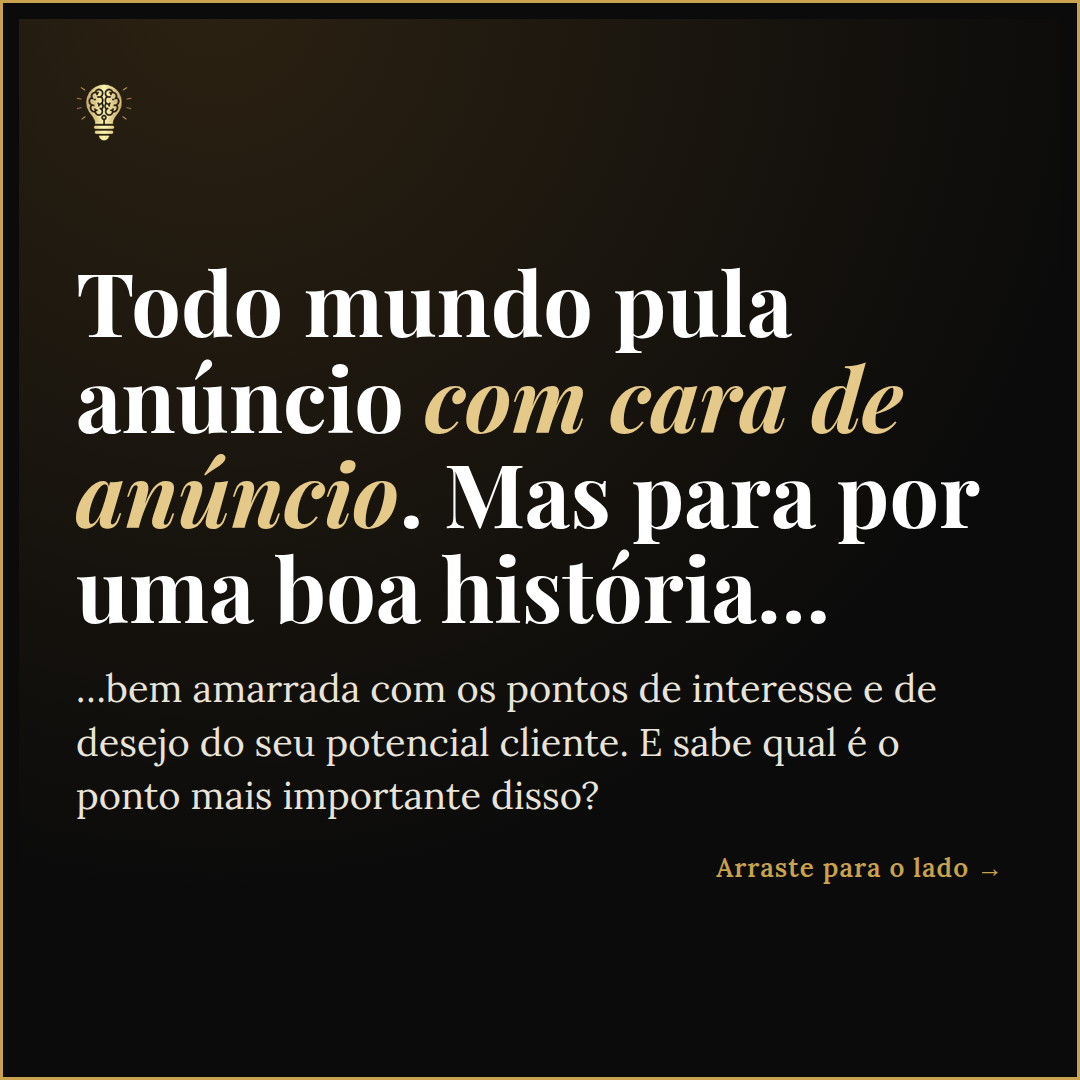
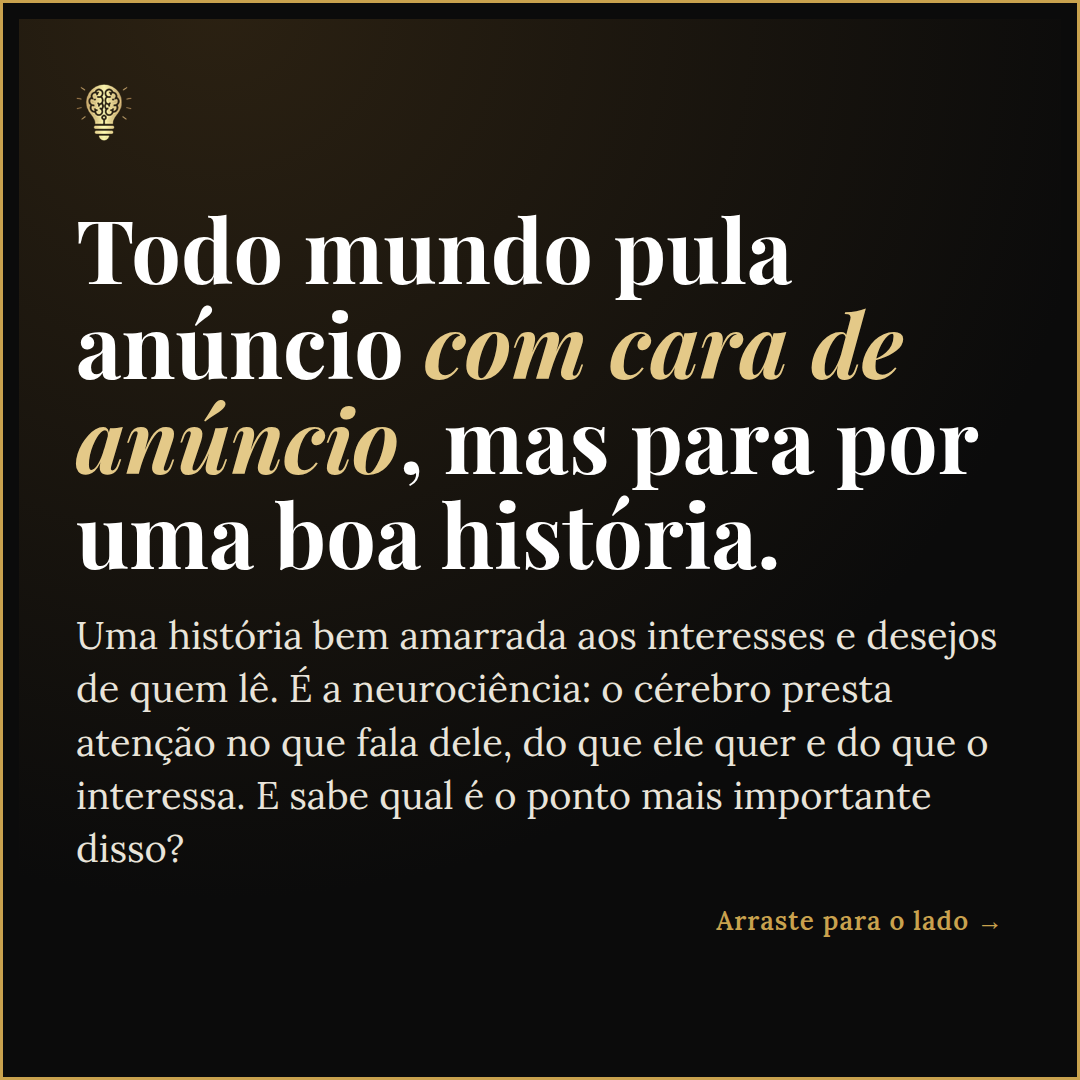
Carrossel Recria Ads: card 3 com a neurociência
Claude-Session: https://claude.ai/code/session_01DxpPKgzfVt8WYQSkZW1Msu

Changed region(s): [[0.0611, 0.1833, 0.9167, 0.7944], [0.6722, 0.7944, 0.9167, 0.8861]]

diff --git a/recria/criativos-estaticos/gerar-recria-ads.js b/recria/criativos-estaticos/gerar-recria-ads.js
@@ -9,7 +9,7 @@ const ITEMS=[
 ["ads-1-dor","Recria Ads","Você cria conteúdo e anúncio, mas <em>quase ninguém compra</em>?","Isso não é falta de esforço: é que o jeito de vender mudou. Aprenda a criar conteúdo e anúncio sem cara de anúncio e aumente as vendas do seu negócio.","Apenas 12x de R$ 10,03","Quero saber mais",""],
 ["ads-2a-historia","","Se você tem um negócio, eu preciso te mostrar uma coisa que <em>pode estar te fazendo perder dinheiro</em>.","Lá atrás, ela me fez quebrar dois negócios. Depois que eu ajustei um pequeno detalhe, tudo mudou.","","","seta1"],
 ["ads-2b-revelacao","","Percebeu? <em>Parabéns, você acabou de cair no anúncio.</em>","Eu retive a sua atenção, gerei identificação e fiz você arrastar para o lado para continuar lendo, mesmo sem me conhecer. E sabe por quê?","","","seta"],
-["ads-2c-porque","","Todo mundo pula anúncio <em>com cara de anúncio</em>. Mas para por uma boa história…","…bem amarrada com os pontos de interesse e de desejo do seu potencial cliente. E sabe qual é o ponto mais importante disso?","","","seta"],
+["ads-2c-porque","","Todo mundo pula anúncio <em>com cara de anúncio</em>, mas para por uma boa história.","Uma história bem amarrada aos interesses e desejos de quem lê. É a neurociência: o cérebro presta atenção no que fala dele, do que ele quer e do que o interessa. E sabe qual é o ponto mais importante disso?","","","seta"],
 ["ads-2d-gancho","","Você vai aprender a parar de criar conteúdo com <em>cara de vendedor chato</em>.","Aquele que não agrega, não desperta desejo, só joga o preço na cara da pessoa e te faz perder tempo com um anúncio que ninguém vai comprar no fim das contas. Se você está pronto para criar conteúdo e vender até quando não está vendendo, arraste para o lado.","","","seta"],
 ["ads-2e-oferta","","Aprenda a criar conteúdos e anúncios <em>sem cara de anúncio</em>, como as grandes marcas.","Você vai aprender a adaptar para o seu cenário e para o seu negócio, mesmo com baixo orçamento ou sem dinheiro para pagar influenciador. Para saber todos os detalhes, clique no botão.","","Quero saber mais",""],
 ["ads-3-prova","Recria Ads","Aprenda a criar conteúdos que <em>atraem, engajam e vendem</em>. Com leveza.","Olha esse carrossel do meu perfil de yoga: atraí as pessoas, elas se identificaram e comentaram “eu quero”. No direct, continuei a conversa com a oferta do meu curso e vendi. Tudo configurado de forma automatizada. Você também quer aprender?","","Quero saber mais","prova"]
